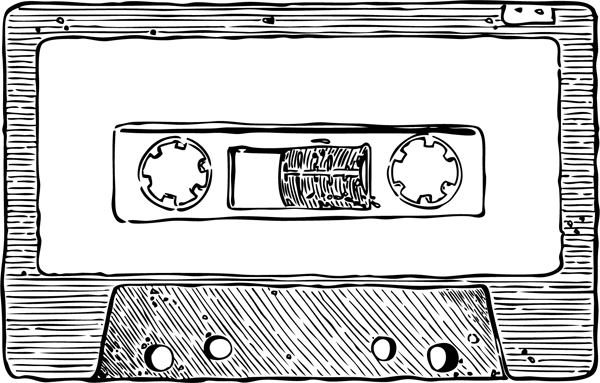
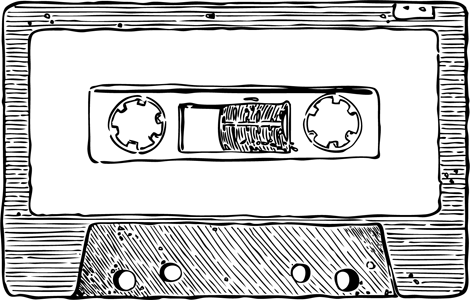
cassette looks good on mobile now

diff --git a/css/engagement.css b/css/engagement.css
@@ -11,6 +11,7 @@
 /* sections */
 .section { min-height: 600px; padding-bottom: 100px; }
 .section .section-content { min-height: 200px; height: auto; margin-bottom: 20px; padding: 20px; padding-bottom: 60px; background-color: #eeeeee; background-color: rgba(238, 238, 238, 0.7); border-radius: 10px; }
+.section .section-full { padding-left: 10px; padding-right: 10px; }
 
 .section-intro h1 { color: #fff; font-family: 'Champagne&LimousinesBold', Helvetica, sans-serif; font-size: 50px; text-transform: uppercase; text-align: center; margin: 0px; padding-bottom: 10px; }
 .section-intro h2 { color: #fff; font-family: 'Champagne&LimousinesItalic', Helvetica, sans-serif; font-size: 36px; text-align: center; margin: 0px; }
@@ -96,14 +97,20 @@ div.nav-li-brand.active a.navbar-brand img, div.nav-li-brand:hover a.navbar-bran
 
 /* guests */
 /* song requests */
-.cassette { height: 300px; background-image: url("../images/cassette.png"); background-repeat: no-repeat; background-position: center; -webkit-background-size: contain; -moz-background-size: contain; -o-background-size: contain; background-size: contain; }
-.cassette form .input-group .input-group-addon { width: 40px; padding: 3px 6px; font-size: 16px; color: #FFFFFF; background-color: #555; border: 1px solid #333; top: 0px; }
-.cassette form .input-group input { width: 150px; background-color: transparent; color: #555555; border: 2px solid #333; border-left: 0px; }
-.cassette form .form-group { margin: 0px; }
-@media (min-width: 768px) { .cassette form { position: relative; top: 50px; width: 340px; margin: 0px auto; }
-  .cassette form .form-group-1 { margin: 0px auto; }
-  .cassette form .form-group-2 { width: 190px; margin: 92px auto 0px auto; }
-  .cassette form .formButton { margin-top: 30px; } }
+.cassette { height: 179px; width: 280px; margin: auto auto; background-image: url("../images/cassette-small.png"); background-repeat: no-repeat; background-position: center; -webkit-background-size: contain; -moz-background-size: contain; -o-background-size: contain; background-size: contain; }
+@media (min-width: 768px) { .cassette { height: 300px; width: 470px; background-image: url("../images/cassette.png"); } }
+.cassette form { position: relative; top: 21px; width: 236px; margin: 0px auto; }
+.cassette form .form-group-1 { width: 236px; margin: 0px auto; }
+.cassette form .form-group-2 { width: 133px; margin: 49px auto 0px auto; }
+.cassette form .formButton { margin-top: 12px; }
+@media (min-width: 768px) { .cassette form { position: relative; top: 42px; width: 340px; margin: 0px auto; }
+  .cassette form .form-group-1 { width: 340px; margin: 0px auto; }
+  .cassette form .form-group-2 { width: 190px; margin: 95px auto 0px auto; }
+  .cassette form .formButton { margin-top: 35px; } }
+.cassette form .input-group .input-group-addon { height: 28px; width: 30px; padding: 3px 6px; font-size: 16px; color: #FFFFFF; background-color: #555; border: 1px solid #333; top: 0px; }
+@media (min-width: 768px) { .cassette form .input-group .input-group-addon { height: 34px; } }
+.cassette form .input-group input { height: 28px; width: 103px; background-color: transparent; color: #555555; border: 2px solid #333; border-left: 0px; }
+@media (min-width: 768px) { .cassette form .input-group input { height: 34px; width: 150px; } }
 
 .formButton { width: 90px; box-sizing: border-box; margin-left: auto; margin-right: auto; }
 

diff --git a/css/guests.scss b/css/guests.scss
@@ -2,50 +2,79 @@
 
 /* song requests */
 .cassette {
-    height: 300px;
-    background-image: url('../images/cassette.png');
+    height: 179px;
+    width: 280px;
+    margin: auto auto;
+    background-image: url('../images/cassette-small.png');
     background-repeat: no-repeat;
     background-position: center;
     -webkit-background-size: contain;
     -moz-background-size: contain;
     -o-background-size: contain;
     background-size: contain;
+    @media (min-width: $screen-sm-min) {
+        height: 300px;
+        width: 470px;
+        background-image: url('../images/cassette.png');
+    }
     form {
+        position: relative;
+        top: 21px;
+        width: 236px;
+        margin: 0px auto;
+        .form-group-1 {
+            width: 236px;
+            margin: 0px auto;
+        }
+        .form-group-2 {
+            width: 133px;
+            margin: 49px auto 0px auto;
+        }
+        .formButton {
+            margin-top: 12px;
+        }
+        @media (min-width: $screen-sm-min) {
+            position: relative;
+            top: 42px;
+            width: 340px;
+            margin: 0px auto;
+            .form-group-1 {
+                width: 340px;
+                margin: 0px auto;
+            }
+            .form-group-2 {
+                width: 190px;
+                margin: 95px auto 0px auto;
+            }
+            .formButton {
+                margin-top: 35px;
+            }
+        }
         .input-group {
             .input-group-addon {
-                width: 40px;
+                height: 28px;
+                width: 30px;
                 padding: 3px 6px;
                 font-size: 16px;
                 color: #FFFFFF;
                 background-color: #555;
                 border: 1px solid #333;
                 top: 0px;
+                @media (min-width: $screen-sm-min) {
+                    height: 34px;
+                }
             }
             input {
-                width: 150px;
+                height: 28px;
+                width: 103px;
                 background-color: transparent;
                 color: #555555;
                 border: 2px solid #333;
                 border-left: 0px;
-            }
-        }
-        .form-group {
-            margin: 0px;
-        }
-        @media (min-width: $screen-sm-min) {
-            position: relative;
-            top: 50px;
-            width: 340px;
-            margin: 0px auto;
-            .form-group-1 {
-                margin: 0px auto;
-            }
-            .form-group-2 {
-                width: 190px;
-                margin: 92px auto 0px auto;
-            }
-            .formButton {
-                margin-top: 30px;
+                @media (min-width: $screen-sm-min) {
+                    height: 34px;
+                    width: 150px;
+                }
             }
         }
     }

diff --git a/indexB.html b/indexB.html
@@ -264,9 +264,11 @@
         </div>
     </div>
     <div id="guests" class="section section-purple container-fluid">
-        <div class="section-content col-xs-12 col-sm-10 col-sm-offset-1 col-md-8 col-md-offset-2">
-            <h1>Guests</h1>
+        <div class="section-content section-full row">
             <div class="col-xs-12">
+                <h1>Guests</h1>
+            </div>
+            <div>
                 <h3>Song requests</h3>
                 <h4>I promise to dance if you play...</h4>
                 <div class="cassette">

diff --git a/css/engagement.scss b/css/engagement.scss
@@ -47,8 +47,6 @@ $screen-lg-min: 1200px;
 /* sections */
 .section {
     min-height: 600px;
-    //width: 100vw;
-    //height: auto;
     padding-bottom: 100px;
     .section-content {
         min-height: 200px;
@@ -59,6 +57,10 @@ $screen-lg-min: 1200px;
         background-color: rgb(238, 238, 238);
         background-color: rgba(238, 238, 238, 0.7);
         border-radius: 10px;
+    }
+    .section-full {
+        padding-left: 10px;
+        padding-right: 10px;
     }
 }
 .section-intro {
